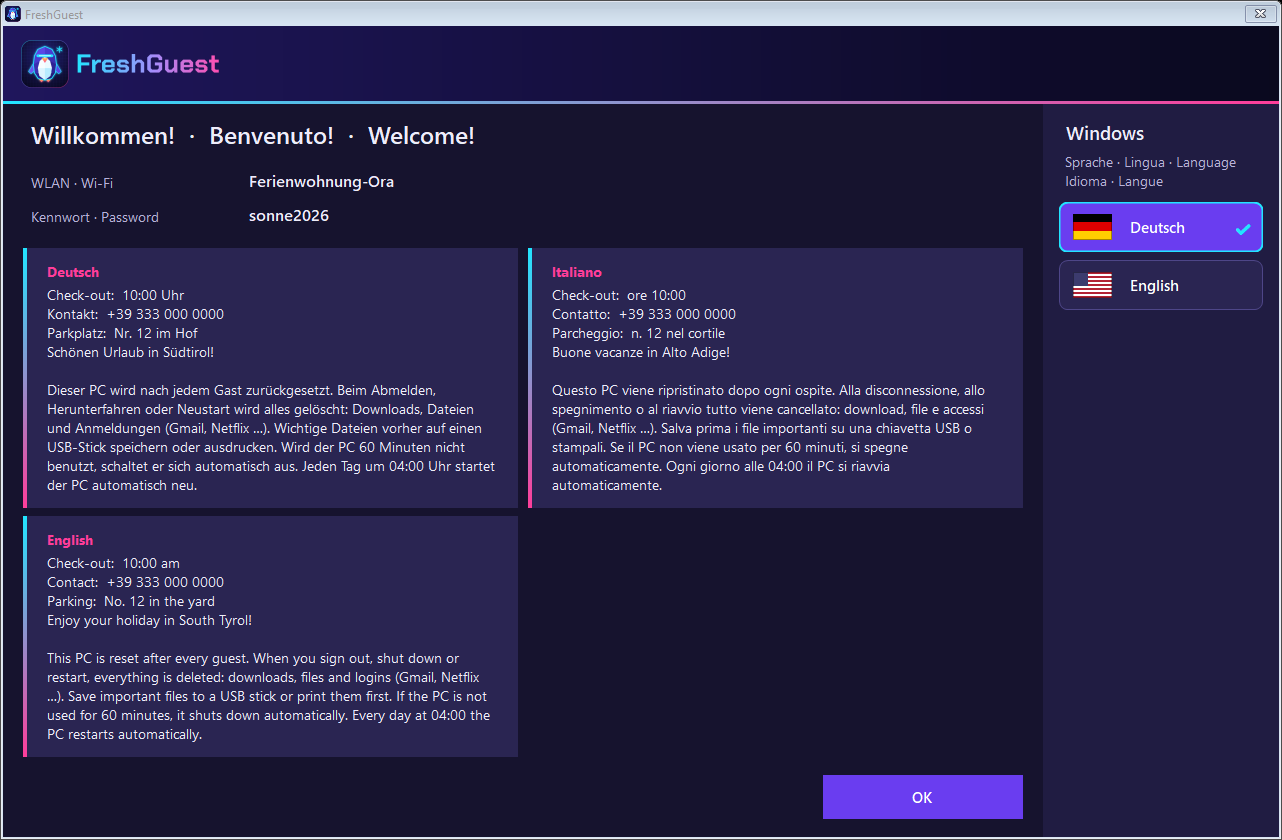
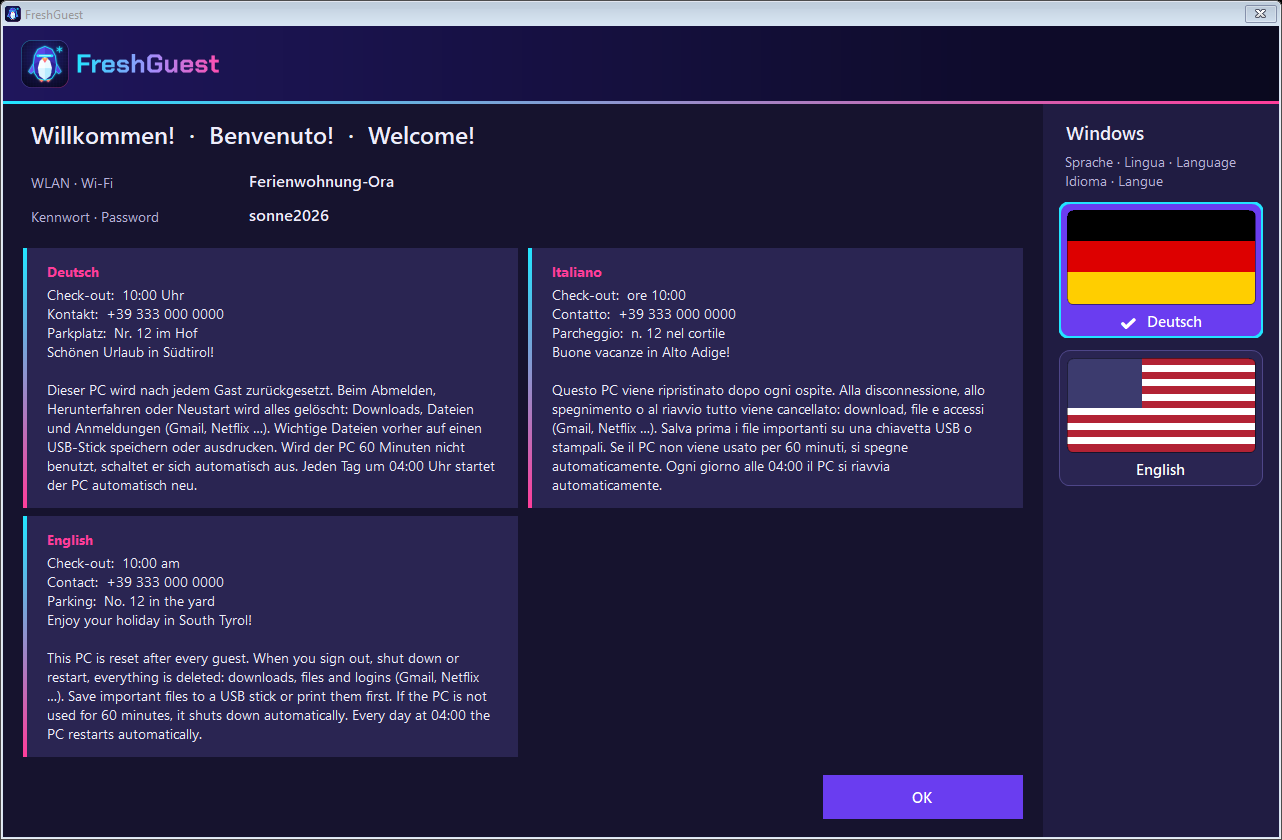
Language buttons as large flags

Changed region(s): [[0.8112, 0.2476, 0.9984, 0.5881]]

diff --git a/src/Sprachwahl.cs b/src/Sprachwahl.cs
@@ -292,11 +292,11 @@ namespace GaesteSchutz
             foreach (string tag in langs)
             {
                 var b = new FlagButton(tag, ButtonName(tag, langs), string.Equals(tag, current, StringComparison.OrdinalIgnoreCase))
-                    { Location = new Point(16, by), Size = new Size(w - 32, 50) };
+                    { Location = new Point(16, by), Size = new Size(w - 32, FlagButton.HeightFor(w - 32)) };
                 string tg = tag;
                 if (!b.Current) b.Click += (o, e) => Request(f, tg, preview);
                 p.Controls.Add(b);
-                by += 58;
+                by += b.Height + 12;
             }
             p.Height = by + 8;
             return p;
@@ -369,6 +369,9 @@ namespace GaesteSchutz
             return gp;
         }
 
+        // Höhe eines Knopfs: Flagge (Seitenverhältnis 1:2) + Platz für den Namen darunter
+        public static int HeightFor(int width) { return (width - 16) / 2 + 8 + 34; }
+
         protected override void OnPaint(PaintEventArgs e)
         {
             Graphics g = e.Graphics;
@@ -376,21 +379,37 @@ namespace GaesteSchutz
             g.Clear(Parent != null ? Parent.BackColor : Ui.Surface);
             g.SmoothingMode = SmoothingMode.AntiAlias;
             var r = new Rectangle(0, 0, Width - 1, Height - 1);
-            using (GraphicsPath gp = Round(r, (int)(8 * k)))
+            int rad = (int)(10 * k);
+            using (GraphicsPath gp = Round(r, rad))
             {
                 using (var br = new SolidBrush(Current ? Ui.Blue : hot ? Ui.FieldHover : Ui.Field)) g.FillPath(br, gp);
-                using (var pen = new Pen(Current ? Logo.Cyan : Ui.Border, Current ? 2f : 1f)) g.DrawPath(pen, gp);
             }
-            int fh = (int)(26 * k), fw = (int)(39 * k);
-            var fr = new Rectangle((int)(14 * k), (Height - fh) / 2, fw, fh);
-            g.SmoothingMode = SmoothingMode.None;
-            Flags.Draw(g, fr, LangTag);
-            int tx = fr.Right + (int)(14 * k);
-            TextRenderer.DrawText(g, Text, Font, new Rectangle(tx, 0, Width - tx - (int)(28 * k), Height), Color.White,
-                TextFormatFlags.VerticalCenter | TextFormatFlags.Left | TextFormatFlags.EndEllipsis);
-            if (Current)
-                TextRenderer.DrawText(g, "✔", Font, new Rectangle(Width - (int)(30 * k), 0, (int)(22 * k), Height), Logo.Cyan,
-                    TextFormatFlags.VerticalCenter | TextFormatFlags.HorizontalCenter);
+
+            // Die Flagge ist der Knopf: groß, mit runden Ecken
+            int pad = (int)(8 * k);
+            var fr = new Rectangle(pad, pad, Width - 2 * pad, (Width - 2 * pad) / 2);
+            using (GraphicsPath clip = Round(fr, (int)(6 * k)))
+            {
+                GraphicsState st = g.Save();
+                g.SetClip(clip);
+                g.SmoothingMode = SmoothingMode.None;
+                Flags.Draw(g, fr, LangTag);
+                g.Restore(st);
+                g.SmoothingMode = SmoothingMode.AntiAlias;
+                if (hot && !Current)
+                    using (var br = new SolidBrush(Color.FromArgb(40, 255, 255, 255))) g.FillPath(br, clip);
+                using (var pen = new Pen(Color.FromArgb(120, 0, 0, 0))) g.DrawPath(pen, clip);
+            }
+
+            // Name der Sprache darunter
+            var tr = new Rectangle(pad, fr.Bottom, Width - 2 * pad, Height - fr.Bottom);
+            TextRenderer.DrawText(g, (Current ? "✔  " : "") + Text, Font, tr, Color.White,
+                TextFormatFlags.HorizontalCenter | TextFormatFlags.VerticalCenter | TextFormatFlags.EndEllipsis);
+
+            // Rahmen: aktuelle Sprache neon, sonst beim Darüberfahren hell
+            using (GraphicsPath gp = Round(r, rad))
+            using (var pen = new Pen(Current ? Logo.Cyan : hot ? Ui.Muted : Ui.Border, Current ? 3f * k : 1f))
+                g.DrawPath(pen, gp);
         }
     }
 
@@ -442,11 +461,10 @@ namespace GaesteSchutz
                     break;
                 default:
                     using (var b = new SolidBrush(Ui.Grey)) g.FillRectangle(b, r);
-                    TextRenderer.DrawText(g, lang.ToUpperInvariant(), new Font("Segoe UI Semibold", 8f), r, Color.White,
+                    TextRenderer.DrawText(g, lang.ToUpperInvariant(), new Font("Segoe UI Semibold", Math.Max(8f, r.Height / 4f), GraphicsUnit.Pixel), r, Color.White,
                         TextFormatFlags.HorizontalCenter | TextFormatFlags.VerticalCenter);
                     break;
             }
-            using (var pen = new Pen(Color.FromArgb(90, 0, 0, 0))) g.DrawRectangle(pen, r.X, r.Y, r.Width - 1, r.Height - 1);
         }
 
         static void UnionJack(Graphics g, Rectangle r)
